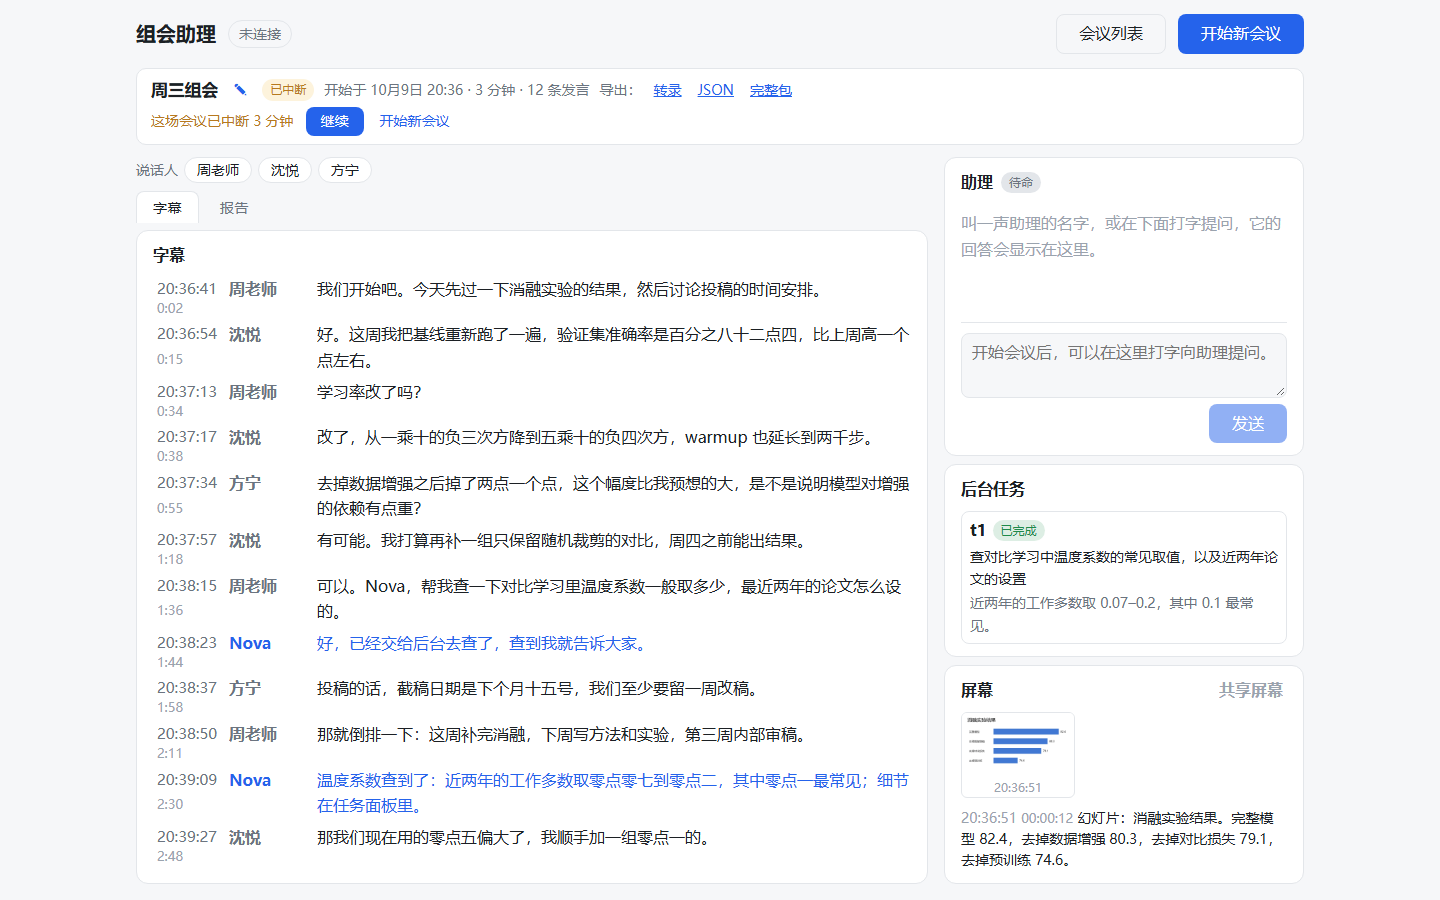
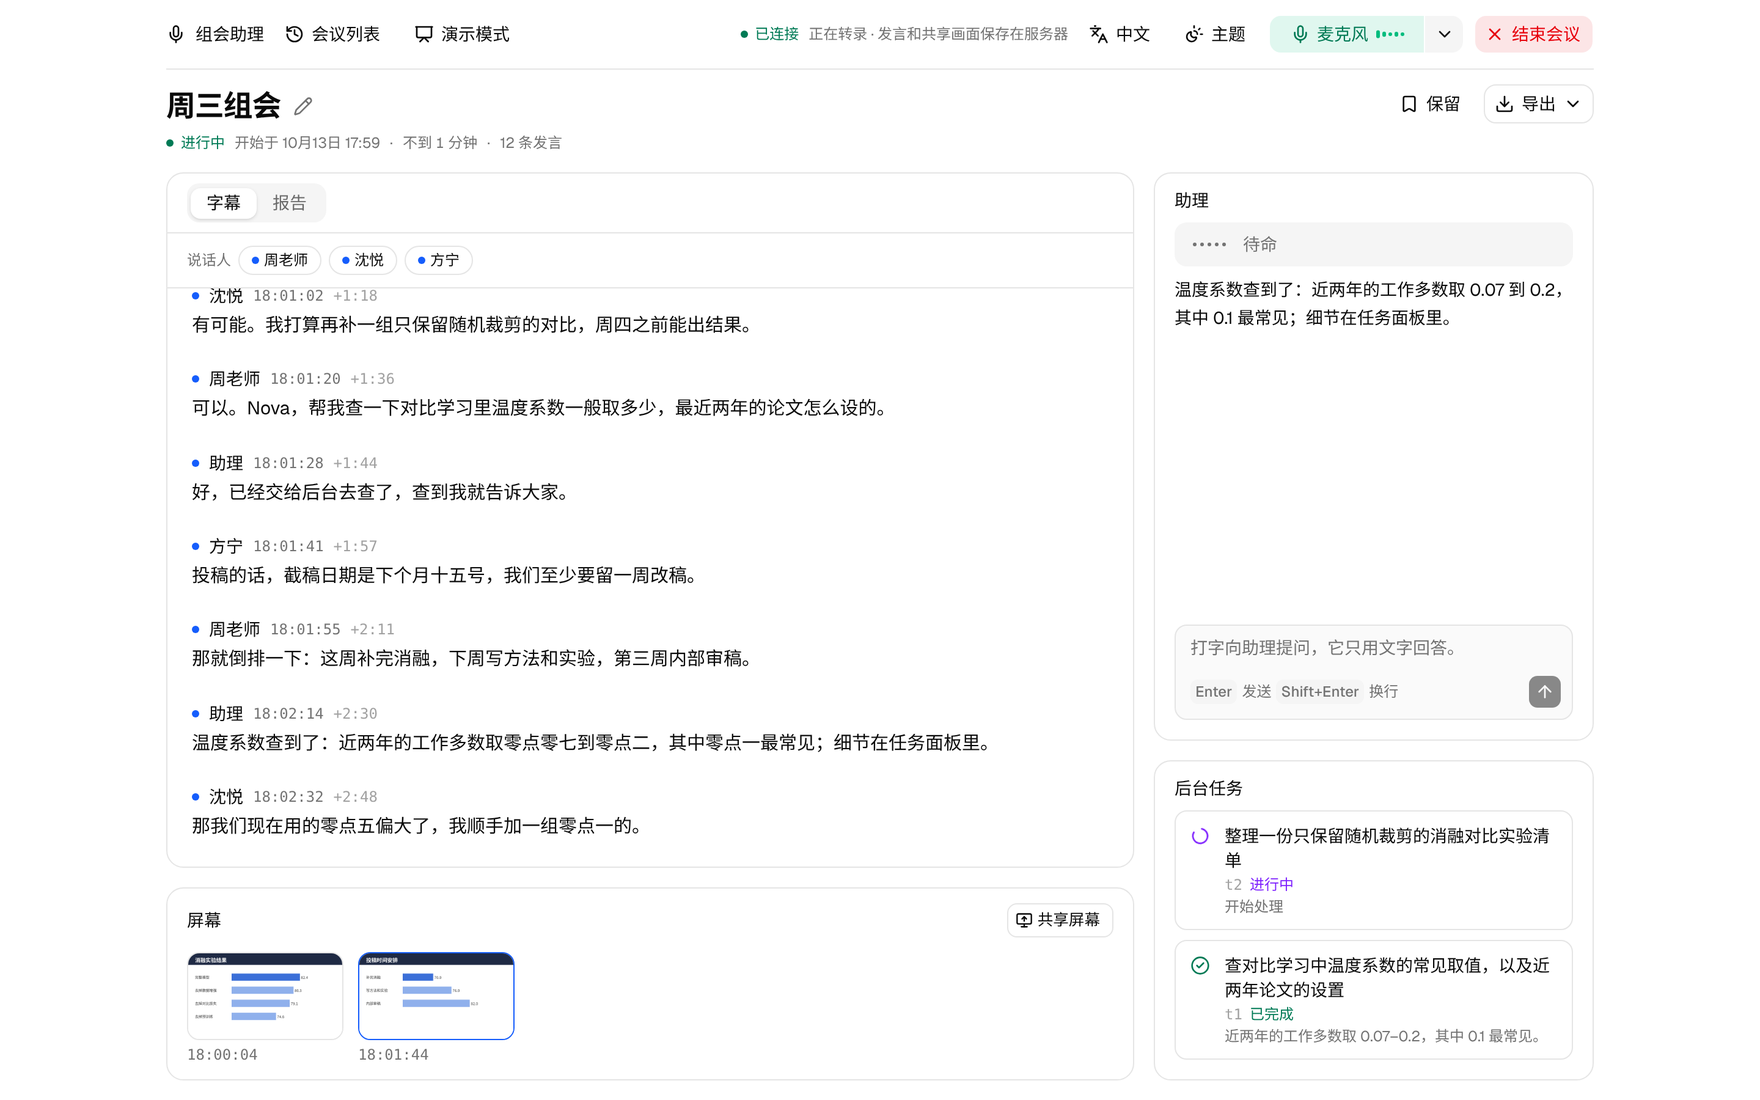
Show the redesigned page in the README
Replace the v0.1 screenshot with one of the new page during a meeting,
and add presentation mode and a phone following the meeting beside it.
All content is demo data.

diff --git a/README.md b/README.md
@@ -17,9 +17,11 @@ answers within about a second when called by name, and hands longer jobs to a ba
 
 <br/><br/>
 
-<img src="docs/assets/screenshot.png" alt="The Agentic-Meeting web page: live captions with speakers, the assistant panel, background tasks and the screen timeline" width="880">
+<img src="docs/assets/screenshot.png" alt="The Agentic-Meeting web page during a meeting: live captions with speakers, the assistant's answer, background tasks and the shared screen" width="880">
 
-<sub>The web page after a short meeting (demo data).</sub>
+<img src="docs/assets/presentation.png" alt="Presentation mode: the latest captions in large type on a dark background, with the assistant's answer below" height="350"> <img src="docs/assets/phone.png" alt="A phone following the same meeting, with captions, assistant, tasks and screen tabs" height="350">
+
+<sub>A meeting in progress, presentation mode for the meeting-room screen, and a phone following along (demo data).</sub>
 
 </div>
 

diff --git a/README.zh-CN.md b/README.zh-CN.md
@@ -16,9 +16,11 @@
 
 <br/><br/>
 
-<img src="docs/assets/screenshot.png" alt="Agentic-Meeting 的网页界面：带说话人的字幕、助理区、后台任务和屏幕时间线" width="880">
+<img src="docs/assets/screenshot.png" alt="Agentic-Meeting 开会时的网页：带说话人的实时字幕、助理的回答、后台任务和共享的画面" width="880">
 
-<sub>一场简短会议之后的页面（演示数据）。</sub>
+<img src="docs/assets/presentation.png" alt="演示模式：深色背景上的大字最新字幕，下方是助理的回答" height="350"> <img src="docs/assets/phone.png" alt="手机旁观同一场会议，分为字幕、助理、任务、画面四页" height="350">
+
+<sub>进行中的会议、给会议室大屏用的演示模式，以及旁观的手机（演示数据）。</sub>
 
 </div>
 
